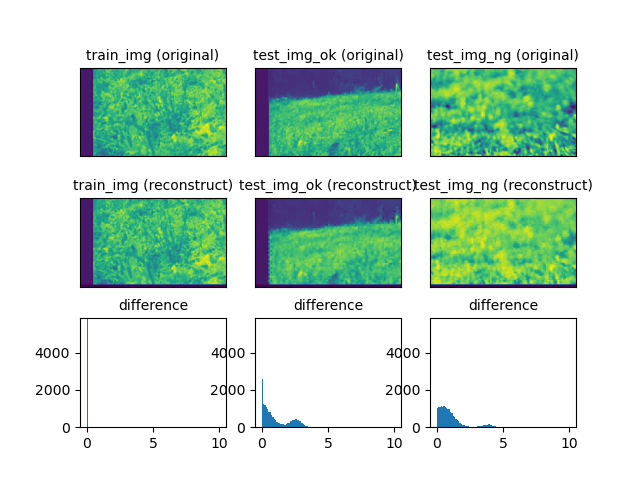
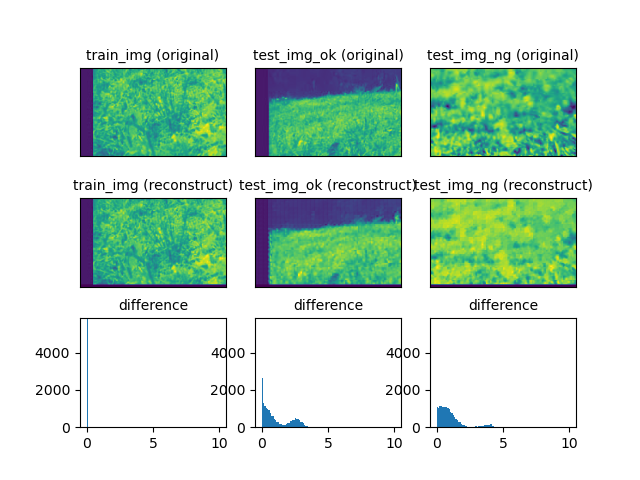
variance has been calculated

diff --git a/window_detect_irregular.py b/window_detect_irregular.py
@@ -88,7 +88,7 @@ def generate_dict(Y,n_components,transform_n_nonzero_coefs,max_iter):
     X = ksvd.fit_transform(Y)
     # 辞書を求める
     D = ksvd.components_
-    
+        
     return D,X,ksvd
 
 
@@ -153,8 +153,19 @@ def evaluate(Y,Y_rec_ok,Y_rec_ng,patch_size,original_img_size, img_list, d_num):
     ax.axes.yaxis.set_visible(False)
     plt.title("test_img_ng (reconstruct)", fontsize=fs)
     
+    var_org = 0
+    var_ok = 0
+    var_ng = 0
+    for i in range(Y.shape[0]):
+        for j in range(Y.shape[1]):
+            var_org = var_org + ((abs(Y[i][j]-Y[i][j])**2)-(np.average(Y)**2))*1/Y.size
+            var_ok = var_ok + ((abs(Y_rec_ok[i][j]-Y[i][j])**2)-(np.average(Y)**2))*1/Y.size
+            var_ng = var_ng + ((abs(Y_rec_ng[i][j]-Y[i][j])**2)-(np.average(Y)**2))*1/Y.size
+    print(f"元画像分散：{var_org}\nOK画像分散：{var_ok}\nNG画像分散：{var_ng}")
+    
     plt.subplot(337)
-    plt.hist(abs(Y-Y).reshape(-1,),bins=100,range=(0,10))
+    plt.hist(abs(Y-Y).reshape(-1,),bins=100,range=(0,1
+                                                   0))
     plt.ylim(0,pxcels/3)
     plt.title("difference", fontsize=fs)
     plt.subplot(338)
